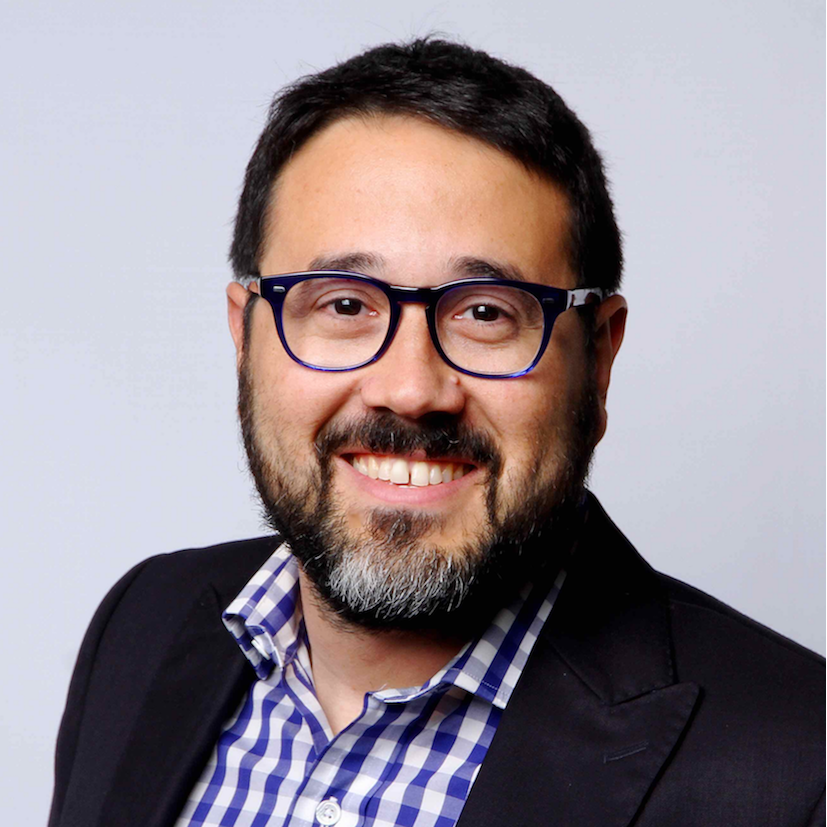
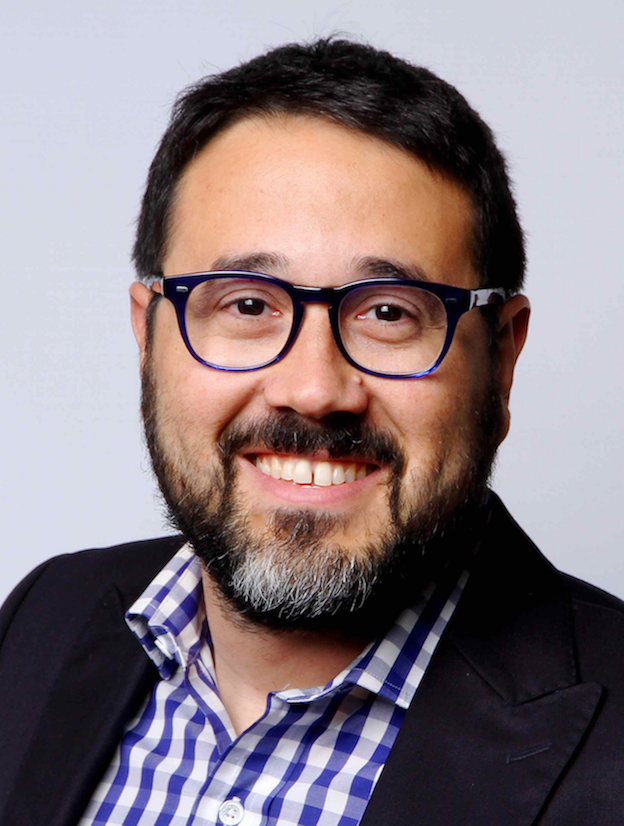
Update program, crop images

diff --git a/open-ai-ran-2025/_pages/program.html b/open-ai-ran-2025/_pages/program.html
@@ -206,7 +206,8 @@
                         <div>
                             <h3 style="margin-top:0;">Invited Talk</h3>
                             <h4 style="margin-top:0;">Xavier Costa-Pérez</h4>
-                            <p style="font-size: small; margin: 0;"><b>Abstract:</b> TBD</p>
+                            <p style="font-size: small; margin: 0;"><b>Title:</b> Agentic Solutions for AI-RAN Systems</p>
+                            <p style="font-size: small; margin: 0;"><b>Abstract:</b> This talk presents a transformative vision for the future of AI-RAN systems based on Agentic AI. Our research demonstrates the potential of integrating Large Language Models to achieve a new level of Network Intelligence. We will showcase a Telecom Copilot framework using Retrieval-Augmented Generation to provide LLMs with precise, verifiable reasoning over complex industry standards. Building on this, the talk will explore how to unlock the disruptive potential of Agentic AI to fundamentally reshape the design, deployment, and evolution of future AI-RAN systems.</p>
                             <p style="font-size: small; margin: 0;"><b>Bio:</b> Xavier Costa-Pérez is an ICREA Research Professor and Scientific Director at the i2cat Research Center, concurrently leading 6G R&D at NEC Laboratories Europe. His team consistently delivers impactful research, evidenced by publications in top-tier scientific venues and numerous awards for successful technology transfers. He actively secures funding through internal and external competitive R&D programs and contributed significantly to standardization bodies, including 3GPP, O-RAN, ETSI ISAC, and IETF. Notably, his innovations have been integrated into commercial mobile phones, base stations, and network management systems, and have spurred the creation of multiple start-ups. Dr. Costa-Pérez has held various leadership roles across industry and research, including Deputy General Manager, Chief Researcher, and member of Technology and Scientific Advisory Boards. He is a recognized contributor to multiple standard specifications who actively participated in bodies such as IEEE 802.11, 802.16, WiFi Alliance, and 3GPP. He has also served on organizing committees for prominent conferences (e.g., ACM MOBICOM, IEEE INFOCOM) and as an Editor for leading journals like IEEE Transactions on Mobile Computing (TMC), IEEE Transactions on Communications (TCOM), as well as Elsevier Computer Communications (COMCOM). Dr. Costa-Pérez holds M.Sc. and Ph.D. degrees in Telecommunications from the Polytechnic University of Catalonia (UPC), receiving a national award for his doctoral thesis. He is the inventor of approximately 100 granted patents.
                             </p>
                         </div>
@@ -301,7 +302,7 @@
                             </figcaption>
                         </div>
                         <div>
-                            <h3 style="margin-top:0;">Invited Talk</h3>
+                            <h3 style="margin-top:0;">Architecting the infrastructure for 6G</h3>
                             <h4 style="margin-top:0;">Hanen Garcia</h4>
                             <p style="font-size: small; margin: 0;"><b>Abstract:</b> TBD</p>
                             <p style="font-size: small; margin: 0;"><b>Bio:</b> Hanen Garcia is Chief Architect, Telecommunications, in the CTO Office at Red Hat. With over 25 years of experience in the telecommunications industry, he specializes in building advanced network solutions and value-added services for global telecom operators.<br><br>
@@ -394,7 +395,60 @@
                 </td>
                 <td style="vertical-align: top; padding-top: 12px;">
                     <h3 style="margin: 0;">Industry Panel on “Outlook for Open RAN and AI RAN in 6G Networks”</h3>
-                    <p style="margin: 2px 0 0 0;">Moderator and Panelists: TBD</p>
+
+                    <p style="margin: 8px 0 6px 0; font-size: small; font-weight: bold;">Moderator</p>
+                    <div style="display:flex; flex-wrap:wrap; gap:20px; align-items:flex-start; margin-bottom:12px;">
+                        <div style="width:120px; text-align:center;">
+                            <img src="assets/images/mahesh.jpg" class="img-responsive" width="100px" alt="Mahesh Marina Photo">
+                            <figcaption style="text-align:center; margin-top:6px; font-size: small;">
+                                <b>Mahesh Marina</b><br>
+                                <span style="font-size: x-small;">Moderator</span>
+                            </figcaption>
+                        </div>
+                    </div>
+
+                    <p style="margin: 6px 0 8px 0; font-size: small; font-weight: bold;">Panelists</p>
+                    <div style="display:flex; flex-wrap:wrap; gap:24px; align-items:flex-start;">
+                        <div style="width:120px; text-align:center;">
+                            <img src="assets/images/alex_jinsung_choi.jpg" class="img-responsive" width="100px" alt="Alex Jinsung Choi Photo">
+                            <figcaption style="text-align:center; margin-top:6px; font-size: small;">
+                                <b>Alex Jinsung Choi</b><br>
+                                <span style="font-size: x-small;">SoftBank / AI‑RAN Alliance Chair</span>
+                            </figcaption>
+                        </div>
+
+                        <div style="width:120px; text-align:center;">
+                            <img src="assets/images/xaviercosta.jpg" class="img-responsive" width="100px" alt="Xavier Costa-Pérez Photo">
+                            <figcaption style="text-align:center; margin-top:6px; font-size: small;">
+                                <b>Xavier Costa-Pérez</b><br>
+                                <span style="font-size: x-small;">NEC Laboratories Europe / i2cat</span>
+                            </figcaption>
+                        </div>
+
+                        <div style="width:120px; text-align:center;">
+                            <img src="assets/images/HanenGarcia-RHSUM.png" class="img-responsive" width="100px" alt="Hanen Garcia Photo">
+                            <figcaption style="text-align:center; margin-top:6px; font-size: small;">
+                                <b>Hanen Garcia</b><br>
+                                <span style="font-size: x-small;">Red Hat</span>
+                            </figcaption>
+                        </div>
+
+                        <div style="width:120px; text-align:center;">
+                            <img src="assets/images/navid.JPG" class="img-responsive" width="100px" alt="Navid Nikaein Photo">
+                            <figcaption style="text-align:center; margin-top:6px; font-size: small;">
+                                <b>Navid Nikaein</b><br>
+                                <span style="font-size: x-small;">BubbleRAN / EURECOM</span>
+                            </figcaption>
+                        </div>
+
+                        <div style="width:120px; text-align:center;">
+                            <img src="assets/images/yuewang.jpg" class="img-responsive" width="100px" alt="Yue Wang Photo">
+                            <figcaption style="text-align:center; margin-top:6px; font-size: small;">
+                                <b>Yue Wang</b><br>
+                                <span style="font-size: x-small;">China Telecom</span>
+                            </figcaption>
+                        </div>
+                    </div>
                 </td>
             </tr>
 
